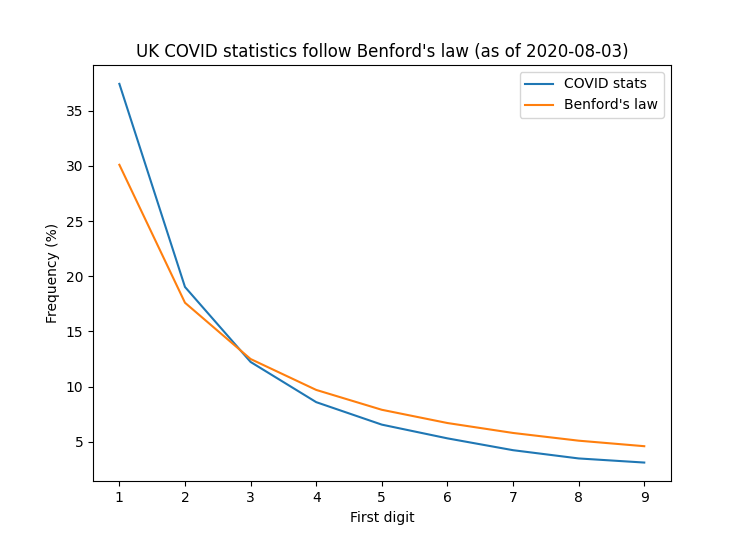
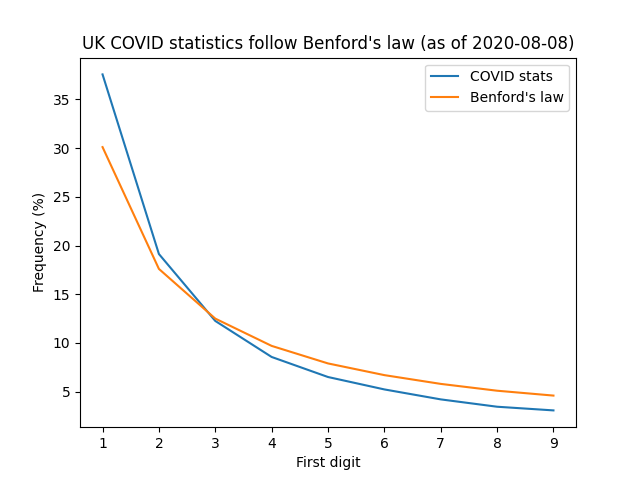
Use CSV data
Government CSV data is updated more frequently than the JSON data (every day, instead of every week)

diff --git a/analysis.py b/analysis.py
@@ -1,15 +1,32 @@
-import json
+import os
+import requests
+import csv
 import matplotlib.pyplot as plt
 
 buckets = [0, 0, 0, 0, 0, 0, 0, 0, 0, 0]
 
+if not os.path.isfile('data.csv'):
+    print('Downloading data...')
+    try:
+        data = requests.get('https://c19downloads.azureedge.net/downloads/csv/coronavirus-cases_latest.csv')
+    except Exception as e:
+        print('Failed to retrieve data:')
+        print(e)
+        exit(1)
+    with open('data.csv', 'w') as f:
+        f.write(data.text)
+
 # Parse and bucket the data
-with open('data.json') as f:
-    data = json.loads(f.read())
-    for ltla in data['ltlas']:
-        firstDigit = int(str(ltla['dailyLabConfirmedCases'])[0])
-        buckets[firstDigit] = buckets[firstDigit] + 1
-    lastUpdated = data['metadata']['lastUpdatedAt']
+print('Analysing data...')
+with open('data.csv') as f:
+    data = csv.reader(f)
+    lastUpdated = '0'
+    for row in data:
+        if row[2] == 'ltla':
+            firstDigit = int(str(row[4])[0])
+            buckets[firstDigit] = buckets[firstDigit] + 1
+        if row[3] != 'Specimen date':
+            lastUpdated = max(lastUpdated, row[3])
 
 # Ignore 0s
 buckets = buckets[1:]
@@ -20,9 +37,13 @@ for i in range(0, len(buckets)):
     buckets[i] = 100 * buckets[i] / total
 
 # Plot
+print('Plotting data...')
 fig, ax = plt.subplots()
 ax.plot(range(1, 10), buckets, label = 'COVID stats')
 ax.plot(range(1, 10), [30.1, 17.6, 12.5, 9.7, 7.9, 6.7, 5.8, 5.1, 4.6], label = 'Benford\'s law')
 ax.set(xlabel = 'First digit', ylabel = 'Frequency (%)', title = 'UK COVID statistics follow Benford\'s law (as of ' + lastUpdated[0:10] + ')')
 plt.legend()
-plt.show()
+if os.environ.get('CI') == 'true' or os.environ.get('HEADLESS') == 'true':
+    plt.savefig('output.png')
+else:
+    plt.show()

diff --git a/README.md b/README.md
@@ -6,13 +6,13 @@ Data from [coronavirus.data.gov.uk](https://coronavirus.data.gov.uk/)
 
 ## Setup
 
-Install curl, Python and matplotlib
-
 ```
-curl -o data.json https://c19downloads.azureedge.net/downloads/json/coronavirus-cases_latest.json
+python -m venv env
+source env/bin/activate
+pip install -r requirements.txt
 ```
 
-## Running
+## Usage
 
 ```
 python analysis.py
